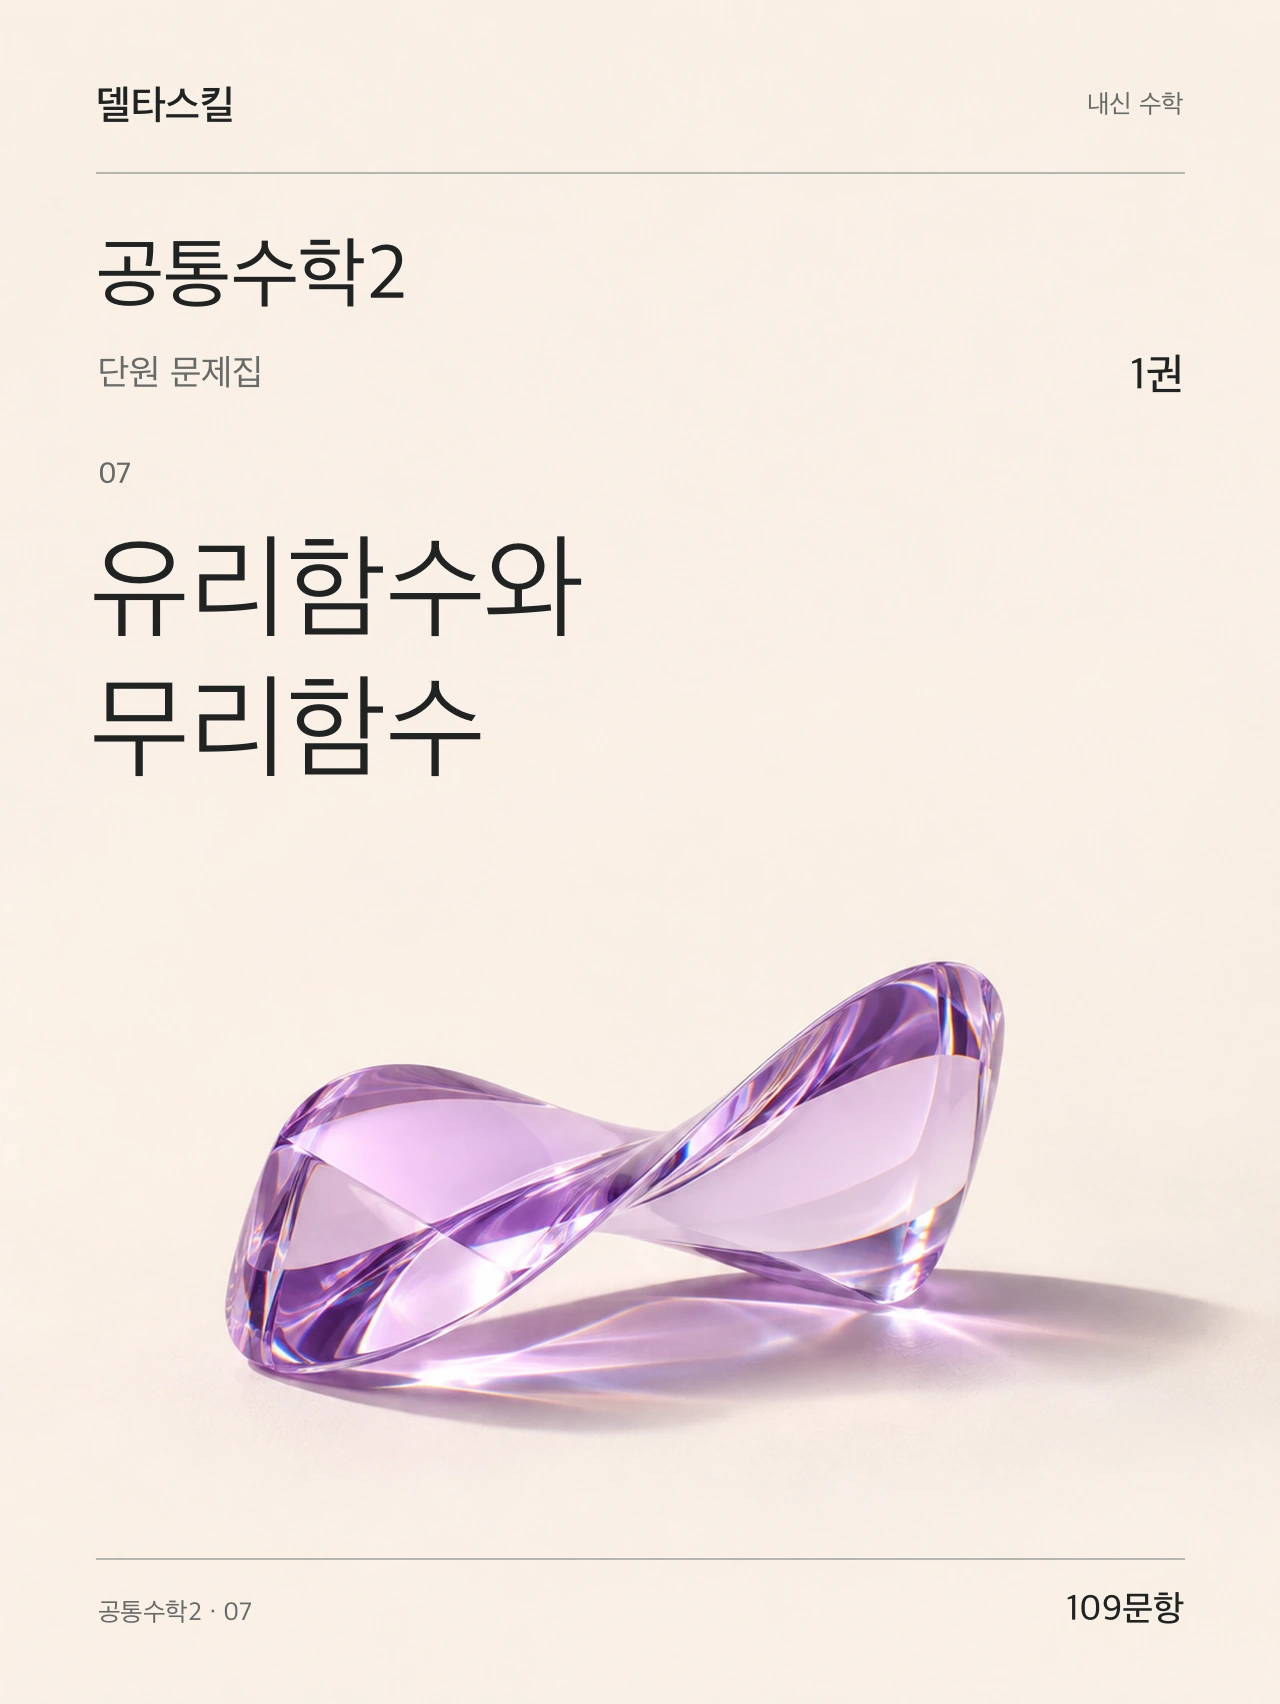
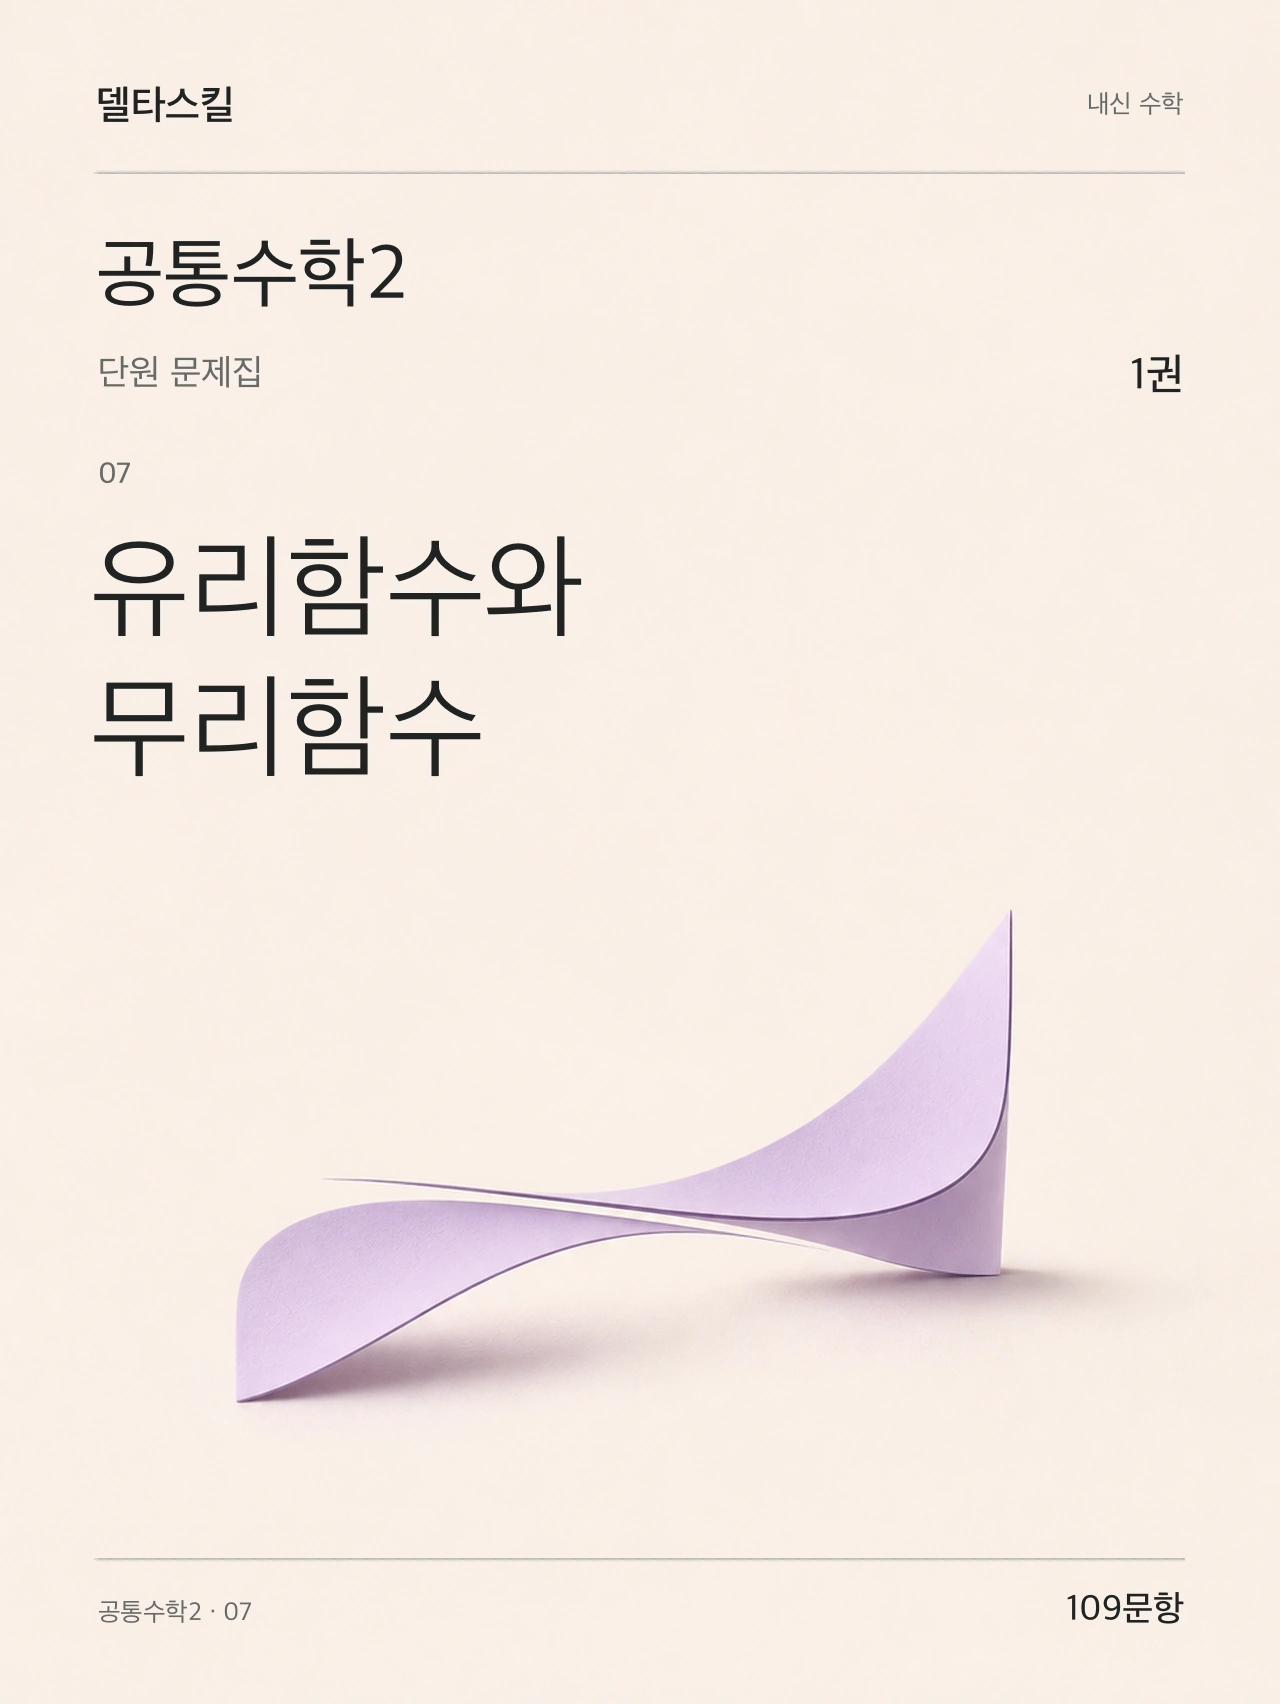
Revise the lead workbook cover with a matte lilac paper motif

Changed region(s): [[0.1562, 0.5599, 0.9688, 0.8398]]

diff --git a/app/materials-shop.js b/app/materials-shop.js
@@ -41,7 +41,7 @@
   const price = (p, fmt) => fmt === 'pdf' ? (quote(p)?.points ?? publicPoints[p.sku] ?? null) : p.formats.hwpx?.price;
   const cashReady = p => Number.isSafeInteger(p.formats.hwpx?.price) && p.formats.hwpx.price > 0 && p.formats.hwpx.files.length > 0;
   const enabled = (p, fmt) => fmt === 'pdf' ? Number.isSafeInteger(price(p,fmt)) && price(p,fmt)>0 : cashReady(p);
-  const coverURL = sku => 'public-data/covers/' + encodeURIComponent(sku) + '.webp?v=3';
+  const coverURL = sku => 'public-data/covers/' + encodeURIComponent(sku) + '.webp?v=' + (sku === 'NS-CM2-07' ? '4' : '3');
   const cost = (p,fmt) => Number.isSafeInteger(price(p,fmt)) ? money(price(p,fmt)) + (fmt === 'pdf' ? ' P' : '원') : fmt === 'pdf' ? '포인트 가격 확인 중' : publicPoints[p.sku] ? '판매 예정가 ' + money(publicPoints[p.sku] * 2) + '원' : '준비 중';
   const picked = () => products.flatMap(p => ['pdf','hwpx'].filter(fmt => cart.includes(key(p,fmt)) && enabled(p,fmt)).map(fmt => ({p,fmt})));
   function options(query='') {
